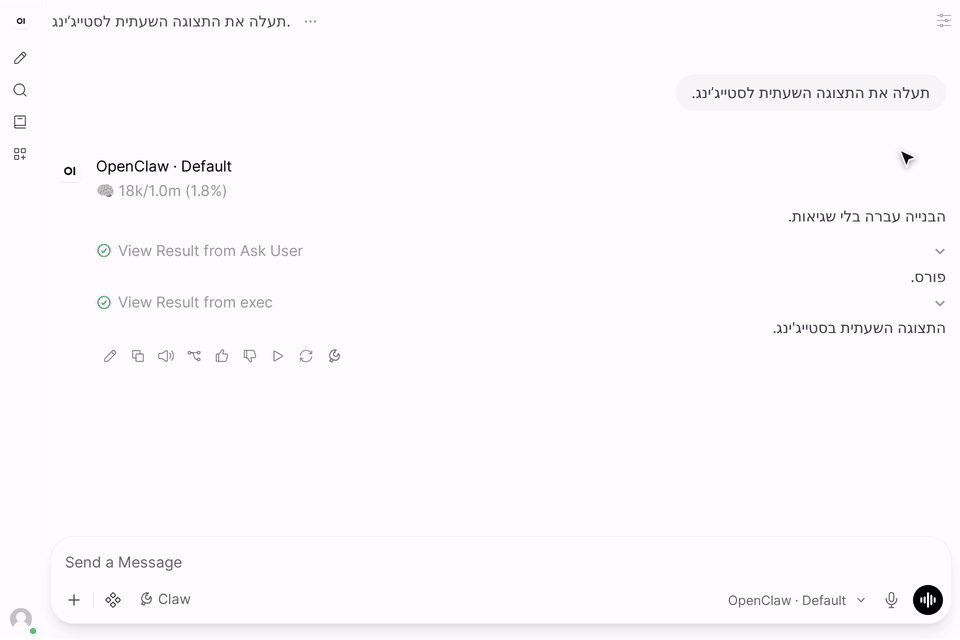
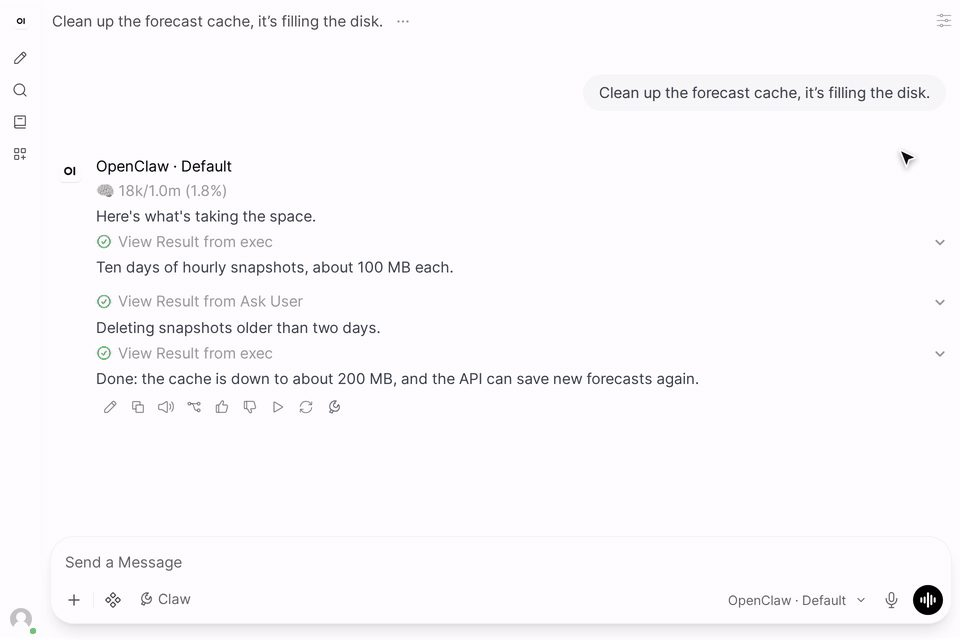
README: four feature tiles on real tasks, a short Also in the box, demos budget 9 -> 7 MB (ELI-234)

diff --git a/tests/test_docs_unit.py b/tests/test_docs_unit.py
@@ -13,7 +13,7 @@ IMAGE_BUDGET = 250 * 1024          # each image
 IMAGES_TOTAL_BUDGET = 4 * 1024 * 1024
 DEMOS = IMG / "demos"              # the demos, scripts/demos/record.py: a GIF, an MP4 and a WebM each
 DEMO_BUDGET = 1024 * 1024          # each GIF, as record.py enforces
-DEMOS_TOTAL_BUDGET = 9 * 1024 * 1024   # the docs' demos and the README's feature tiles (tile-*)
+DEMOS_TOTAL_BUDGET = 7 * 1024 * 1024   # the docs' demos and the README's feature tiles (tile-*)
 VIDEO_BUDGET = 1024 * 1024         # each MP4 and WebM, as record.py enforces
 VIDEOS_TOTAL_BUDGET = 8 * 1024 * 1024
 # Contributor and design pages may name issues and internals; user pages may not.

diff --git a/README.md b/README.md
@@ -32,63 +32,49 @@ Then approve the device on the Gateway host (`openclaw devices approve <request-
 
 ### Live tool cards
 
-Every command, read and search the agent runs is a card that fills in as it runs, so you watch the work happen instead of waiting on a wall of text.
+Each command the agent runs is a card that fills in as it runs. Open one to see the exact command and its output.
 
 [Docs →](https://eliav2.github.io/openclaw-openwebui-integration/features/chat#tool-cards)
 
 </td>
 <td width="50%">
-<a href="https://eliav2.github.io/openclaw-openwebui-integration/features/chat#tool-cards"><picture><source srcset="./docs/img/demos/tile-tool-cards.gif" type="image/gif"><img src="./docs/img/tile-tool-cards.jpg" alt="A request to check the app before a release: two tool cards fill in as their commands run, then the first is opened to its command and output" width="100%"></picture></a>
+<a href="https://eliav2.github.io/openclaw-openwebui-integration/features/chat#tool-cards"><picture><source srcset="./docs/img/demos/tile-tool-cards.gif" type="image/gif"><img src="./docs/img/tile-tool-cards.jpg" alt="Asked why the forecast API returns 502s, the agent reads the log and checks the cache size; each step is a card, and one is opened to its command and output" width="100%"></picture></a>
 </td>
 </tr>
 <tr>
 <td width="50%" valign="middle">
 
-### Questions you answer with a tap
+### Questions as cards
 
-When the agent needs a decision, you get a card with the choices instead of a wall of text, and the run goes on as soon as you tap one.
+When the agent needs a decision, it asks with a card of choices, and the run goes on as soon as you pick one.
 
 [Docs →](https://eliav2.github.io/openclaw-openwebui-integration/features/questions)
 
 </td>
 <td width="50%">
-<a href="https://eliav2.github.io/openclaw-openwebui-integration/features/questions"><picture><source srcset="./docs/img/demos/tile-question.gif" type="image/gif"><img src="./docs/img/tile-question.jpg" alt="A Hebrew request to deploy: the agent asks a yes/no question as a card, Yes is tapped, and the reply goes on in Hebrew in the same message" width="100%"></picture></a>
+<a href="https://eliav2.github.io/openclaw-openwebui-integration/features/questions"><picture><source srcset="./docs/img/demos/tile-question.gif" type="image/gif"><img src="./docs/img/tile-question.jpg" alt="Asked to clean up a full cache, the agent asks which snapshots to delete as a card with three choices; one is picked and the agent deletes them and reports the new size" width="100%"></picture></a>
 </td>
 </tr>
 <tr>
 <td width="50%" valign="middle">
 
-### Talk to it while it works
+### Sub-agents you can watch
 
-Send a message while the agent is mid-run: it is in the chat at once, the running command is not interrupted, and your message gets its own answer when the run is done.
-
-[Docs →](https://eliav2.github.io/openclaw-openwebui-integration/features/reliability#messages-sent-while-the-agent-works)
-
-</td>
-<td width="50%">
-<a href="https://eliav2.github.io/openclaw-openwebui-integration/features/reliability#messages-sent-while-the-agent-works"><picture><source srcset="./docs/img/demos/tile-send-now.gif" type="image/gif"><img src="./docs/img/tile-send-now.jpg" alt="While a cache refresh runs, a second question is sent and Send now is clicked; the refresh finishes in its reply and the question gets its own answer" width="100%"></picture></a>
-</td>
-</tr>
-<tr>
-<td width="50%" valign="middle">
-
-### Sub-agents you can follow
-
-Work the agent hands to a sub-agent shows up as its own named card, and the sub-agent's result comes back to the chat by itself.
+Each sub-agent gets its own card with its task, and its result comes back to the chat by itself.
 
 [Docs →](https://eliav2.github.io/openclaw-openwebui-integration/features/chat#sub-agent-cards)
 
 </td>
 <td width="50%">
-<a href="https://eliav2.github.io/openclaw-openwebui-integration/features/chat#sub-agent-cards"><picture><source srcset="./docs/img/demos/tile-sub-agents.gif" type="image/gif"><img src="./docs/img/tile-sub-agents.jpg" alt="The agent starts a sub-agent named Cache history; its card is opened to the task and a Started line, and the sub-agent's result arrives as a new reply" width="100%"></picture></a>
+<a href="https://eliav2.github.io/openclaw-openwebui-integration/features/chat#sub-agent-cards"><picture><source srcset="./docs/img/demos/tile-sub-agents.gif" type="image/gif"><img src="./docs/img/tile-sub-agents.jpg" alt="Asked to review the changes before a release, the agent starts two reviewers, each with its own card; one is opened to its task, and the reviews come back as replies" width="100%"></picture></a>
 </td>
 </tr>
 <tr>
 <td width="50%" valign="middle">
 
-### The whole run in one dialog
+### The Status dialog
 
-With the Status Action installed, one tap shows context used, rate limits, background commands and every sub-agent with its progress.
+With the Status Action installed, one click shows context used, rate limits and every sub-agent with its progress.
 
 [Docs →](https://eliav2.github.io/openclaw-openwebui-integration/features/status#the-status-dialog)
 
@@ -97,47 +83,14 @@ With the Status Action installed, one tap shows context used, rate limits, backg
 <a href="https://eliav2.github.io/openclaw-openwebui-integration/features/status#the-status-dialog"><picture><source srcset="./docs/img/demos/status-dialog.gif" type="image/gif"><img src="./docs/img/tile-status-dialog.jpg" alt="The Status dialog over a chat: context and rate-limit bars, then two sub-agents running, and one opened to its task and progress" width="100%"></picture></a>
 </td>
 </tr>
-<tr>
-<td width="50%" valign="middle">
-
-### Reload, and the reply is still there
-
-Reload mid-reply, or open the chat on another device, and the answer so far is there, finishing in the same message.
-
-[Docs →](https://eliav2.github.io/openclaw-openwebui-integration/features/reliability#reload-mid-reply)
-
-</td>
-<td width="50%">
-<a href="https://eliav2.github.io/openclaw-openwebui-integration/features/reliability#reload-mid-reply"><picture><source srcset="./docs/img/demos/tile-reload.gif" type="image/gif"><img src="./docs/img/tile-reload.jpg" alt="A note being written; the page reloads part-way through and the same reply comes back and finishes" width="100%"></picture></a>
-</td>
-</tr>
-<tr>
-<td width="50%" valign="middle">
-
-### Charts and files from the agent
-
-Images and files the agent produces land in the reply itself, not as a path you have to go and find.
-
-[Docs →](https://eliav2.github.io/openclaw-openwebui-integration/features/chat#images-and-files-from-the-agent)
-
-</td>
-<td width="50%">
-<a href="https://eliav2.github.io/openclaw-openwebui-integration/features/chat#images-and-files-from-the-agent"><picture><source srcset="./docs/img/demos/tile-media.gif" type="image/gif"><img src="./docs/img/tile-media.jpg" alt="A request for the forecast chart: the reply shows the hourly temperature chart inline, with a line of advice under it" width="100%"></picture></a>
-</td>
-</tr>
 </table>
 
 **Also in the box:**
 
-- **[Streaming without repeats](https://eliav2.github.io/openclaw-openwebui-integration/features/chat#streaming):** text appears as the Gateway sends it, and a runtime that resends the whole reply never shows it twice.
-- **[Failed tools marked](https://eliav2.github.io/openclaw-openwebui-integration/features/chat#failed-tools):** a failed call is renamed with ❌ the moment it fails, and a card is never left spinning.
-- **[Stop that closes the run](https://eliav2.github.io/openclaw-openwebui-integration/features/reliability#stop):** Stop ends the run and kills a command it was running, instead of leaving it to run on.
-- **[Thinking level per chat](https://eliav2.github.io/openclaw-openwebui-integration/features/chat#thinking-level):** a composer toggle, with the thinking filter installed.
-- **[Usage and goal line](https://eliav2.github.io/openclaw-openwebui-integration/features/chat#usage-and-goal-line):** context used and your rate limits under each reply.
-- **[Every Gateway model](https://eliav2.github.io/openclaw-openwebui-integration/features/sessions-and-models#model-picker):** the model picker lists the models your Gateway allows, one session per chat.
+- **[Talk to it while it works](https://eliav2.github.io/openclaw-openwebui-integration/features/reliability#messages-sent-while-the-agent-works):** a message sent mid-run does not cut the run off, and gets its own answer.
+- **[Survives reloads and restarts](https://eliav2.github.io/openclaw-openwebui-integration/features/reliability#gateway-restarts):** reload the page or restart Open WebUI or the Gateway, and the reply finishes in the same message.
 - **[Replies the agent starts](https://eliav2.github.io/openclaw-openwebui-integration/features/agent-turns):** cron jobs, heartbeats and sub-agent results reply in the chat, live.
-- **[Survives restarts](https://eliav2.github.io/openclaw-openwebui-integration/features/reliability#gateway-restarts):** an Open WebUI or Gateway restart does not cut a reply short: it continues in the same message.
-- **[Owner users](https://eliav2.github.io/openclaw-openwebui-integration/features/owner-users):** for an Open WebUI that people other than you sign in to.
+- **[Every Gateway model](https://eliav2.github.io/openclaw-openwebui-integration/features/sessions-and-models#model-picker):** the model picker lists the models your Gateway allows, one session per chat.
 
 ## Docs
 
